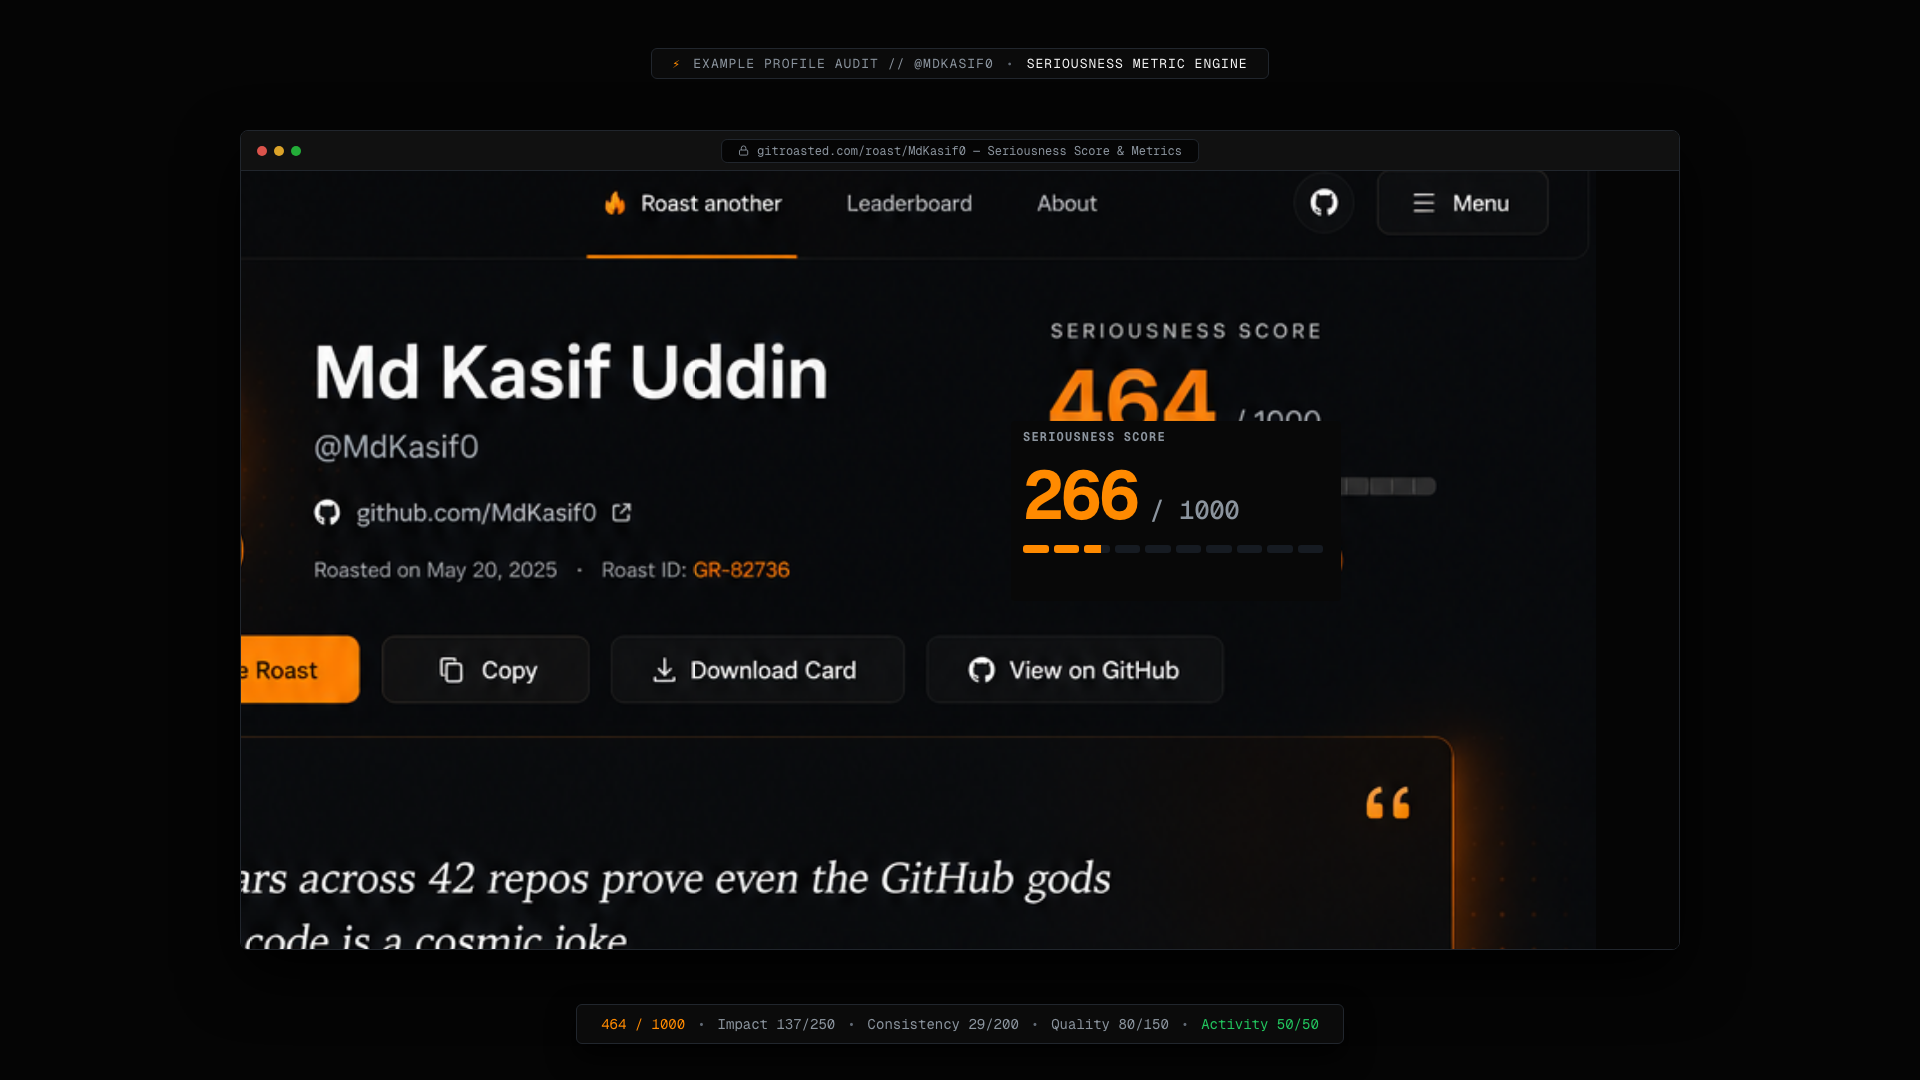
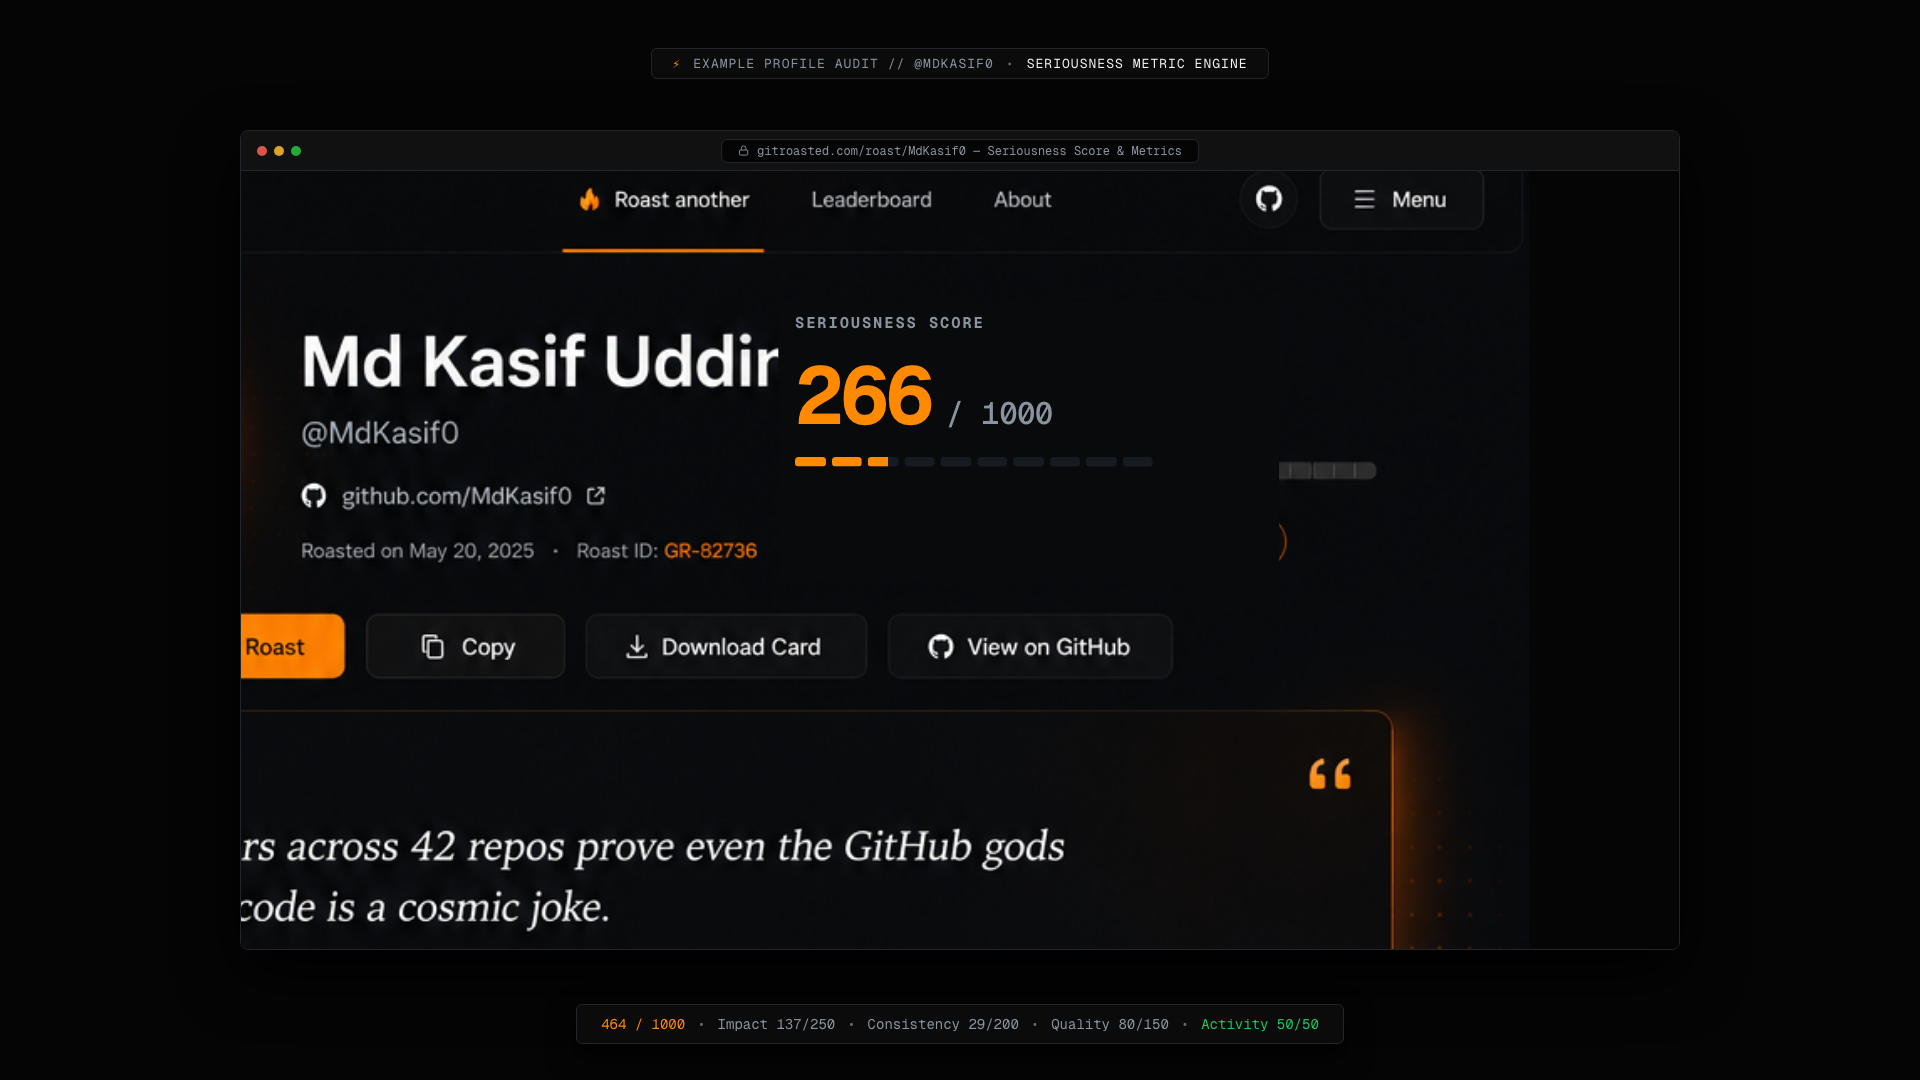
refactor: replace screenshot reveal with scaled image wrapper and update score overlay positioning

diff --git a/src/scenes/Score.tsx b/src/scenes/Score.tsx
@@ -232,127 +232,145 @@ export const Score: React.FC = () => {
             height={820}
             title="gitroasted.com/roast/MdKasif0 — Seriousness Score & Metrics"
           >
-            <div style={{ position: 'relative', width: '100%', height: '100%' }}>
-              <ScreenshotReveal
-                src="roast_page.png"
-                scale={cameraScale}
-                panX={cameraPanX}
-                panY={cameraPanY}
-                borderRadius={0}
-                boxShadow="none"
-                border="none"
-              />
-
-              {/* Dynamic Live Counter Overlay precisely masking and animating the screenshot score */}
-              {frame < 96 && (
-                <div
+            <div
+              style={{
+                position: 'relative',
+                width: '100%',
+                height: '100%',
+                overflow: 'hidden',
+              }}
+            >
+              <div
+                style={{
+                  position: 'absolute',
+                  width: 1440,
+                  transform: `translate(${cameraPanX}px, ${cameraPanY}px) scale(${cameraScale})`,
+                  transformOrigin: '980px 240px',
+                }}
+              >
+                <Img
+                  src={staticFile('roast_page.png')}
                   style={{
-                    position: 'absolute',
-                    top: 250,
-                    left: 770,
-                    width: 330,
-                    height: 180,
-                    display: 'flex',
-                    flexDirection: 'column',
-                    alignItems: 'flex-start',
-                    gap: 6,
-                    background: '#080808',
-                    padding: '8px 12px',
-                    borderRadius: 4,
-                    opacity: interpolate(frame, [92, 96], [1, 0], {
-                      extrapolateLeft: 'clamp',
-                      extrapolateRight: 'clamp',
-                    }),
+                    width: 1440,
+                    height: 'auto',
+                    display: 'block',
                   }}
-                >
-                  <div
-                    style={{
-                      fontSize: 12,
-                      fontWeight: 700,
-                      letterSpacing: '0.1em',
-                      color: '#8B949E',
-                      textTransform: 'uppercase',
-                      fontFamily: "'Geist Mono', monospace",
-                    }}
-                  >
-                    SERIOUSNESS SCORE
-                  </div>
+                />
 
-                  <ScoreCounter
-                    startScore={0}
-                    endScore={464}
-                    startFrame={52}
-                    durationInFrames={40}
-                    fontSize={68}
-                  />
-
-                  <SegmentedScoreBar
-                    progress={interpolate(frame, [52, 92], [0, 0.464], {
-                      extrapolateLeft: 'clamp',
-                      extrapolateRight: 'clamp',
-                    })}
-                    totalSegments={10}
-                  />
-
-                  {frame >= 92 && (
-                    <div
-                      style={{
-                        marginTop: 4,
-                        padding: '3px 12px',
-                        borderRadius: 4,
-                        background: '#161B22',
-                        border: '1px solid #FF8A00',
-                        color: '#FF8A00',
-                        fontSize: 12,
-                        fontWeight: 700,
-                        fontFamily: "'Geist Mono', monospace",
-                      }}
-                    >
-                      🔥 Rising Developer
-                    </div>
-                  )}
-                </div>
-              )}
-
-              {/* Subtle orange hairline accent spotlighting the surrounding metrics after score settles */}
-              {frame >= 96 && (
-                <div
-                  style={{
-                    position: 'absolute',
-                    top: 360,
-                    left: 80,
-                    width: 1280,
-                    height: 380,
-                    border: '1px solid rgba(255, 138, 0, 0.4)',
-                    borderRadius: 6,
-                    background: 'rgba(255, 138, 0, 0.02)',
-                    pointerEvents: 'none',
-                    opacity: interpolate(frame, [96, 110], [0, 1], {
-                      extrapolateRight: 'clamp',
-                    }),
-                  }}
-                >
+                {/* Dynamic Live Counter Overlay precisely masking and animating the screenshot score */}
+                {frame < 96 && (
                   <div
                     style={{
                       position: 'absolute',
-                      top: -11,
-                      left: 20,
-                      background: '#0B0B0B',
-                      border: '1px solid #FF8A00',
-                      padding: '2px 10px',
-                      borderRadius: 3,
-                      color: '#FF8A00',
-                      fontFamily: "'Geist Mono', monospace",
-                      fontSize: 10,
-                      fontWeight: 700,
-                      letterSpacing: '0.08em',
-                      textTransform: 'uppercase',
+                      top: 135,
+                      left: 810,
+                      width: 420,
+                      height: 235,
+                      display: 'flex',
+                      flexDirection: 'column',
+                      alignItems: 'flex-start',
+                      gap: 8,
+                      background: '#080A0C',
+                      padding: '10px 14px',
+                      borderRadius: 6,
+                      opacity: interpolate(frame, [92, 96], [1, 0], {
+                        extrapolateLeft: 'clamp',
+                        extrapolateRight: 'clamp',
+                      }),
                     }}
                   >
-                    Surrounding Interface // Quick Wins & Metrics
+                    <div
+                      style={{
+                        fontSize: 13,
+                        fontWeight: 700,
+                        letterSpacing: '0.12em',
+                        color: '#8B949E',
+                        textTransform: 'uppercase',
+                        fontFamily: "'Geist Mono', monospace",
+                      }}
+                    >
+                      SERIOUSNESS SCORE
+                    </div>
+
+                    <ScoreCounter
+                      startScore={0}
+                      endScore={464}
+                      startFrame={52}
+                      durationInFrames={40}
+                      fontSize={68}
+                    />
+
+                    <SegmentedScoreBar
+                      progress={interpolate(frame, [52, 92], [0, 0.464], {
+                        extrapolateLeft: 'clamp',
+                        extrapolateRight: 'clamp',
+                      })}
+                      totalSegments={10}
+                    />
+
+                    {frame >= 92 && (
+                      <div
+                        style={{
+                          marginTop: 4,
+                          padding: '4px 14px',
+                          borderRadius: 20,
+                          background: 'rgba(255, 138, 0, 0.08)',
+                          border: '1px solid #FF8A00',
+                          color: '#FF8A00',
+                          fontSize: 13,
+                          fontWeight: 700,
+                          fontFamily: "'Geist Mono', monospace",
+                          display: 'flex',
+                          alignItems: 'center',
+                          gap: 6,
+                        }}
+                      >
+                        🔥 Rising Developer
+                      </div>
+                    )}
                   </div>
-                </div>
-              )}
+                )}
+
+                {/* Subtle orange hairline accent spotlighting the score & surrounding interface after score settles */}
+                {frame >= 96 && (
+                  <div
+                    style={{
+                      position: 'absolute',
+                      top: 120,
+                      left: 795,
+                      width: 450,
+                      height: 260,
+                      border: '1px solid rgba(255, 138, 0, 0.5)',
+                      borderRadius: 8,
+                      background: 'rgba(255, 138, 0, 0.03)',
+                      pointerEvents: 'none',
+                      opacity: interpolate(frame, [96, 108], [0, 1], {
+                        extrapolateRight: 'clamp',
+                      }),
+                    }}
+                  >
+                    <div
+                      style={{
+                        position: 'absolute',
+                        top: -11,
+                        left: 16,
+                        background: '#0B0B0B',
+                        border: '1px solid #FF8A00',
+                        padding: '2px 10px',
+                        borderRadius: 3,
+                        color: '#FF8A00',
+                        fontFamily: "'Geist Mono', monospace",
+                        fontSize: 10,
+                        fontWeight: 700,
+                        letterSpacing: '0.08em',
+                        textTransform: 'uppercase',
+                      }}
+                    >
+                      VERIFIED SERIOUSNESS SCORE
+                    </div>
+                  </div>
+                )}
+              </div>
             </div>
           </DeviceFrame>
 
